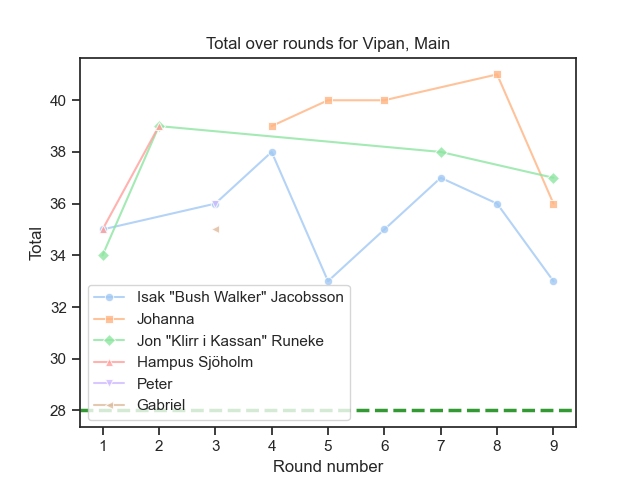
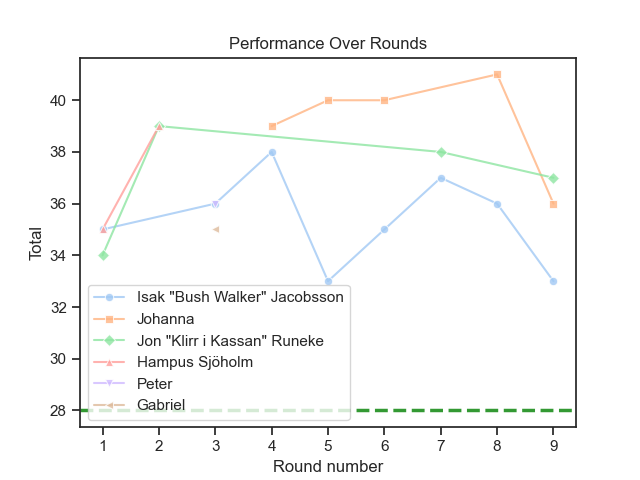
Simplify titles on plots

Changed region(s): [[0.3125, 0.0625, 0.6875, 0.125]]

diff --git a/udisc_analysis.py b/udisc_analysis.py
@@ -128,7 +128,7 @@ def filter_df(df, course_name, layout_name, after_date=None, before_date=None, p
     
     return df
 
-def plot_distribution(df, players, course_name, layout_name, output_path):
+def plot_distribution(df, output_path):
     score_counts = df["ScoreType"].value_counts()
 
     # Define the desired order
@@ -172,12 +172,12 @@ def plot_distribution(df, players, course_name, layout_name, output_path):
         colors=colors
     )
     
-    plt.title(f"Distribution for course: {course_name}, layout: {layout_name}, player(s): {players}")
+    plt.title("Score Distribution")
     if output_path:
         plt.savefig(output_path, dpi=100)
     plt.show()
 
-def plot_performance(df, par_df, course_name, layout_name, players, stat, output_path, plot_par, x_axis_mode):
+def plot_performance(df, par_df, players, stat, output_path, plot_par, x_axis_mode):
     sns.set_theme(style="ticks", palette="pastel")
 
     if players[0] == "All":
@@ -208,12 +208,12 @@ def plot_performance(df, par_df, course_name, layout_name, players, stat, output
     
     x_axis_label = "Round number" if x_axis_mode == "round" else "Date"
     plt.xlabel(x_axis_label)
-    plt.title(f"{stat} over {'rounds' if x_axis_mode == 'round' else 'time'} for {course_name}, {layout_name}")
+    plt.title(f"Performance Over {'Rounds' if x_axis_mode == 'round' else 'Time'}")
     if output_path:
         plt.savefig(output_path, dpi=100)
     plt.show()
 
-def plot_hole_distribution(df, par_df, course_name, layout_name, players, output_path, plot_par):
+def plot_hole_distribution(df, par_df, output_path, plot_par):
     sns.set_theme(style="ticks", palette="pastel")
 
     # Plot score
@@ -229,7 +229,7 @@ def plot_hole_distribution(df, par_df, course_name, layout_name, players, output
     plt.ylim(bottom=0)
     y_max = int(df["Score"].max()) + 1
     plt.yticks(list(range(0, y_max + 1)))
-    plt.title(f"Boxplot for {course_name}, {layout_name}, player(s): {players}")
+    plt.title(f"Distribution per Hole")
     plt.grid(True)
 
     if output_path:
@@ -249,7 +249,7 @@ def score_distribution(args):
     df = filter_df(df, args.course, args.layout, args.after, args.before, args.players)
     df = convert_to_score_distribution(df, par_df)
 
-    plot_distribution(df, args.players, args.course, args.layout, args.output)
+    plot_distribution(df, args.output)
 
 def performance_over_time(args):
     df, par_df = generate_dataframe(args.csv_dir, mode="round")
@@ -257,7 +257,7 @@ def performance_over_time(args):
     df = filter_df(df, args.course, args.layout, args.after, args.before, players=args.players, stat=args.stat)
     par_df = filter_df(par_df, args.course, args.layout, stat=args.stat)
 
-    plot_performance(df, par_df, args.course, args.layout, args.players, args.stat, args.output, args.plot_par, args.x_axis_mode)
+    plot_performance(df, par_df, args.players, args.stat, args.output, args.plot_par, args.x_axis_mode)
 
 def hole_distribution(args):
     df, par_df = generate_dataframe(args.csv_dir)
@@ -265,7 +265,7 @@ def hole_distribution(args):
     df = filter_df(df, args.course, args.layout, args.after, args.before, players=args.players)
     par_df = filter_df(par_df, args.course, args.layout)
 
-    plot_hole_distribution(df, par_df, args.course, args.layout, args.players, args.output, args.plot_par)
+    plot_hole_distribution(df, par_df, args.output, args.plot_par)
 
 def basic_stats(args):
     df, _ = generate_dataframe(args.csv_dir)
@@ -386,7 +386,7 @@ def main():
         "hole-distribution": hole_distribution,
         "basic-stats": basic_stats,
     }
-    
+
     command_handlers[args.command](args)
 
 if __name__ == "__main__":
